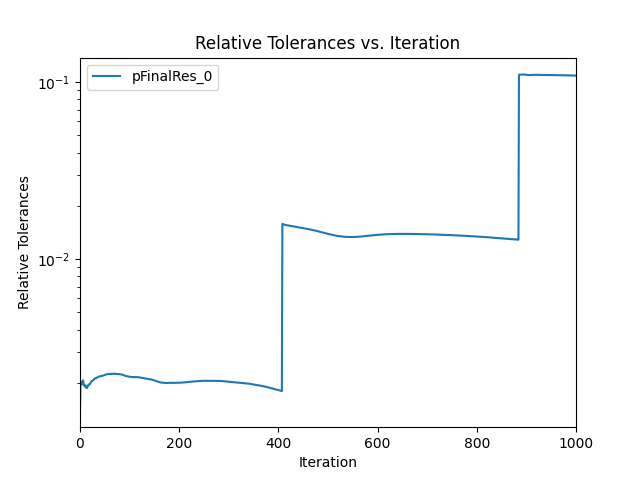
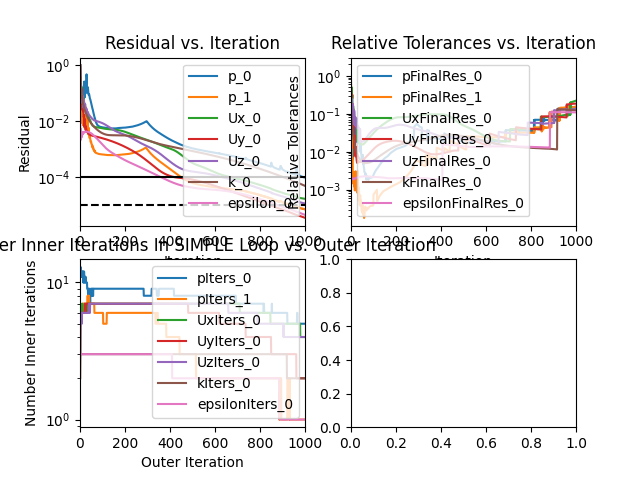
plot_2.py combines multiple graphs

diff --git a/plot_2.py b/plot_2.py
@@ -5,7 +5,6 @@ import numpy as np
 import string
 
 
-
 # define files containing data for each plot
 
 #1: initial tolerance files
@@ -17,6 +16,11 @@ filenames_2 = ["logs/pFinalRes_0", "logs/pFinalRes_1", "logs/UxFinalRes_0", "log
 #3: number of iterations files
 filenames_3 = ["logs/pIters_0", "logs/pIters_1", "logs/UxIters_0", "logs/UyIters_0", "logs/UzIters_0", "logs/kIters_0", "logs/epsilonIters_0"]
 
+# define seperate plots 
+fig, ax = plt.subplots(2,2)
+
+
+
 # read each file as useable data:
 
 #1&2: initial tolerance data
@@ -25,7 +29,7 @@ for f in filenames_1:
     initial_tolerance_data = np.loadtxt(f)
     initial_tolerance_time_steps = initial_tolerance_data[:,0]
     initial_tolerances = initial_tolerance_data[:,1]
-    #plt.plot(initial_tolerance_time_steps, initial_tolerances)
+    ax[0, 0].plot(initial_tolerance_time_steps, initial_tolerances)
     
 #2: final tolerance data
 for g in filenames_2:
@@ -33,6 +37,15 @@ for g in filenames_2:
     final_tolerance_data = np.loadtxt(g)
     final_tolerance_time_steps = final_tolerance_data[:,0]
     final_tolerances = final_tolerance_data[:,1]
+
+    # determine where simulation finished if it did
+    relative_tolerance_time_steps = list(range(0,1000))
+    
+    # calculate relative tolerances
+    relative_tolerances = (final_tolerances)/(initial_tolerances)
+
+    # plot column 0 (time step / iteration) against (initial) residuals
+    ax[0, 1].plot(relative_tolerance_time_steps, relative_tolerances)
     
 
 #3: number iterations data
@@ -41,6 +54,10 @@ for h in filenames_3:
     number_iterations_data = np.loadtxt(h)
     number_iterations_time_steps = number_iterations_data[:,0]
     number_iterations = number_iterations_data[:,1]
+
+    # plot time step / iteration against relative tolerances
+    ax[1, 0].plot(number_iterations_time_steps, number_iterations)
+    
     
 
 
@@ -51,21 +68,17 @@ for h in filenames_3:
 
 # determine where simulation finished if it did
 #relative_tolerance_time_steps = list(range(0,np.min(len(initial_tolerance_time_steps), len(final_tolerance_time_steps))))
-relative_tolerance_time_steps = list(range(0,1000))
+#relative_tolerance_time_steps = list(range(0,1000))
 # calculate relative tolerances
-relative_tolerances = (final_tolerances)/(initial_tolerances)
+#relative_tolerances = (final_tolerances)/(initial_tolerances)
 
 
-
-"""
 #!!! Not yet configured combining into single plot window. !!!#
 # plot 1 - (initial) residuals time series
 
-# plot column 0 (time step / iteration) against (initial) residuals
-## plt.plot(initial_tolerance_time_steps, initial_tolerances)
 # (optional) add horizontal lines to plot for idea of residuals relaxations.
-plt.axhline(y=1.0e-05, color="black", linestyle='--')
-plt.axhline(y=1.0e-04, color="black", linestyle='-')
+ax[0, 0].axhline(y=1.0e-05, color="black", linestyle='--')
+ax[0, 0].axhline(y=1.0e-04, color="black", linestyle='-')
 # instantaiate array for legend names
 legend_1 = []
 # obtain legend names from file names
@@ -75,30 +88,23 @@ for string in filenames_1:
     #add (to end) of legend
     legend_1.append(new_string)
 # title of plot
-plt.title("Residual vs. Iteration")
+ax[0, 0].set_title("Residual vs. Iteration")
 # x axis label
-plt.xlabel("Iteration")
+ax[0, 0].set_xlabel("Iteration")
 # y axis label
-plt.ylabel("Residual")
+ax[0, 0].set_ylabel("Residual")
 # log scale on y axis since skewed to small residuals
-plt.yscale("log")
+ax[0, 0].set_yscale("log")
 # only plot to data range
-plt.xlim(0, len(initial_tolerance_time_steps))
+ax[0, 0].set_xlim(0, len(initial_tolerance_time_steps))
 #!!! plt.ylim() - figure this out so no white space in y direction !!!#
 
 # add legend to the plot
-plt.legend(legend_1)
-# save plot in current directory
-plt.savefig('figure.png')
-# display plot until closed
-plt.show()
+ax[0, 0].legend(legend_1)
 
-"""
+
 
 # plot 2 - relative tol time series
-
-# plot time step / iteration against relative tolerances
-plt.plot(relative_tolerance_time_steps, relative_tolerances)
 
 # instantaiate array for legend names
 legend_2 = []
@@ -109,30 +115,23 @@ for string in filenames_2:
     #add (to end) of legend
     legend_2.append(new_string)
 # title of plot
-plt.title("Relative Tolerances vs. Iteration")
+ax[0, 1].set_title("Relative Tolerances vs. Iteration")
 # x axis label
-plt.xlabel("Iteration")
+ax[0, 1].set_xlabel("Iteration")
 # y axis label
-plt.ylabel("Relative Tolerances")
+ax[0, 1].set_ylabel("Relative Tolerances")
 # log scale on y axis since skewed to small residuals
-plt.yscale("log")
+ax[0, 1].set_yscale("log")
 # only plot to data range
-plt.xlim(0, len(relative_tolerance_time_steps))
+ax[0, 1].set_xlim(0, len(relative_tolerance_time_steps))
 #!!! plt.ylim() - figure this out so no white space in y direction !!!#
 
 # add legend to the plot
-plt.legend(legend_2)
-# save plot in current directory
-plt.savefig('figure.png')
-# display plot until closed
-plt.show()
+ax[0, 1].legend(legend_2)
 
-"""
+
 
 # plot 3 - number iterations at each timestep time series
-
-# plot time step / iteration against relative tolerances
-##plt.plot(number_iterations_time_steps, number_iterations)
 
 # instantaiate array for legend names
 legend_3 = []
@@ -143,21 +142,24 @@ for string in filenames_3:
     #add (to end) of legend
     legend_3.append(new_string)
 # title of plot
-plt.title("Number Inner Iterations In SIMPLE Loop vs. Outer Iteration")
+ax[1, 0].set_title("Number Inner Iterations In SIMPLE Loop vs. Outer Iteration")
 # x axis label
-plt.xlabel("Outer Iteration")
+ax[1, 0].set_xlabel("Outer Iteration")
 # y axis label
-plt.ylabel("Number Inner Iterations")
+ax[1, 0].set_ylabel("Number Inner Iterations")
 # log scale on y axis since skewed to small residuals
-plt.yscale("log")
+ax[1, 0].set_yscale("log")
 # only plot to data range
-plt.xlim(0, len(number_iterations_time_steps))
+ax[1, 0].set_xlim(0, len(number_iterations_time_steps))
 #!!! plt.ylim() - figure this out so no white space in y direction !!!#
 
 # add legend to the plot
-plt.legend(legend_3)
+ax[1, 0].legend(legend_3)
+
+
+# Generate the plots
+
 # save plot in current directory
 plt.savefig('figure.png')
 # display plot until closed
 plt.show()
-"""

diff --git a/test.py b/test.py
@@ -1,0 +1,8 @@
+import matplotlib.pyplot as plt
+f1 = plt.figure()
+f2 = plt.figure()
+ax1 = f1.add_subplot(111)
+ax1.plot(range(0,10))
+ax2 = f2.add_subplot(111)
+ax2.plot(range(10,20))
+plt.show()
